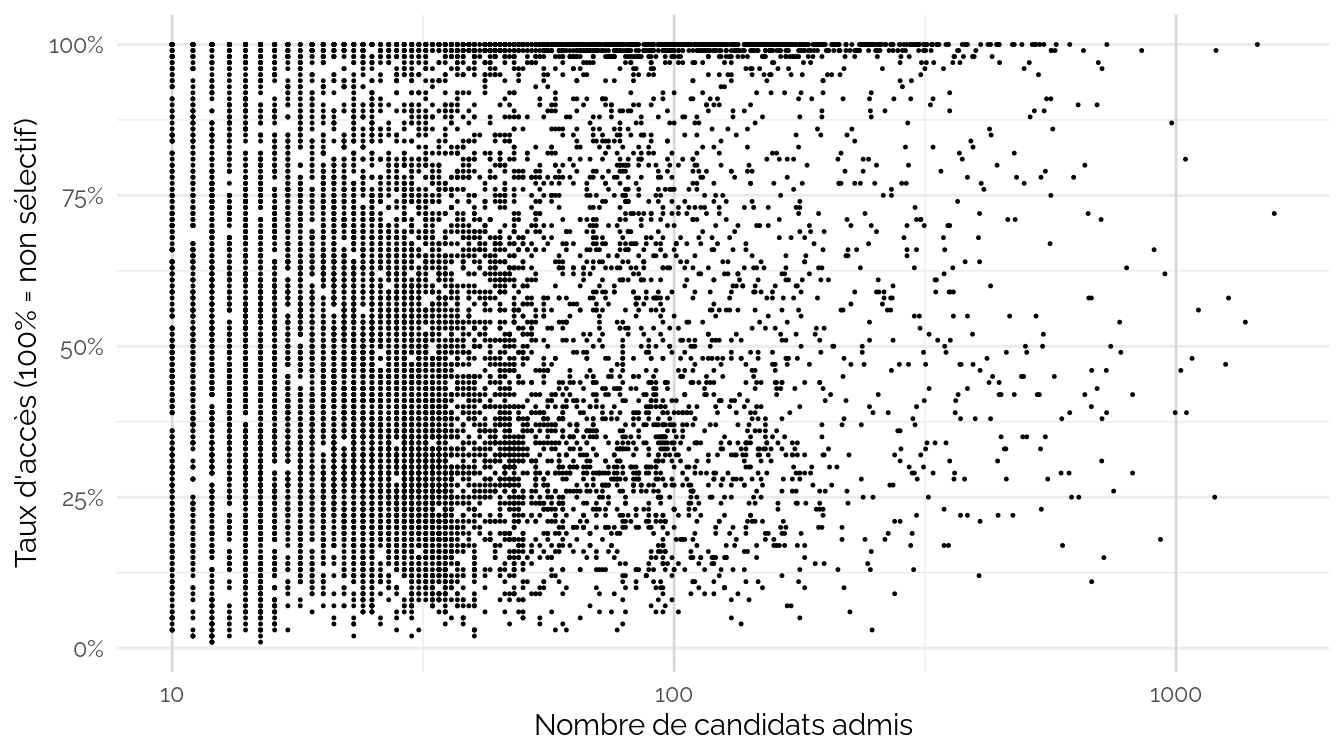
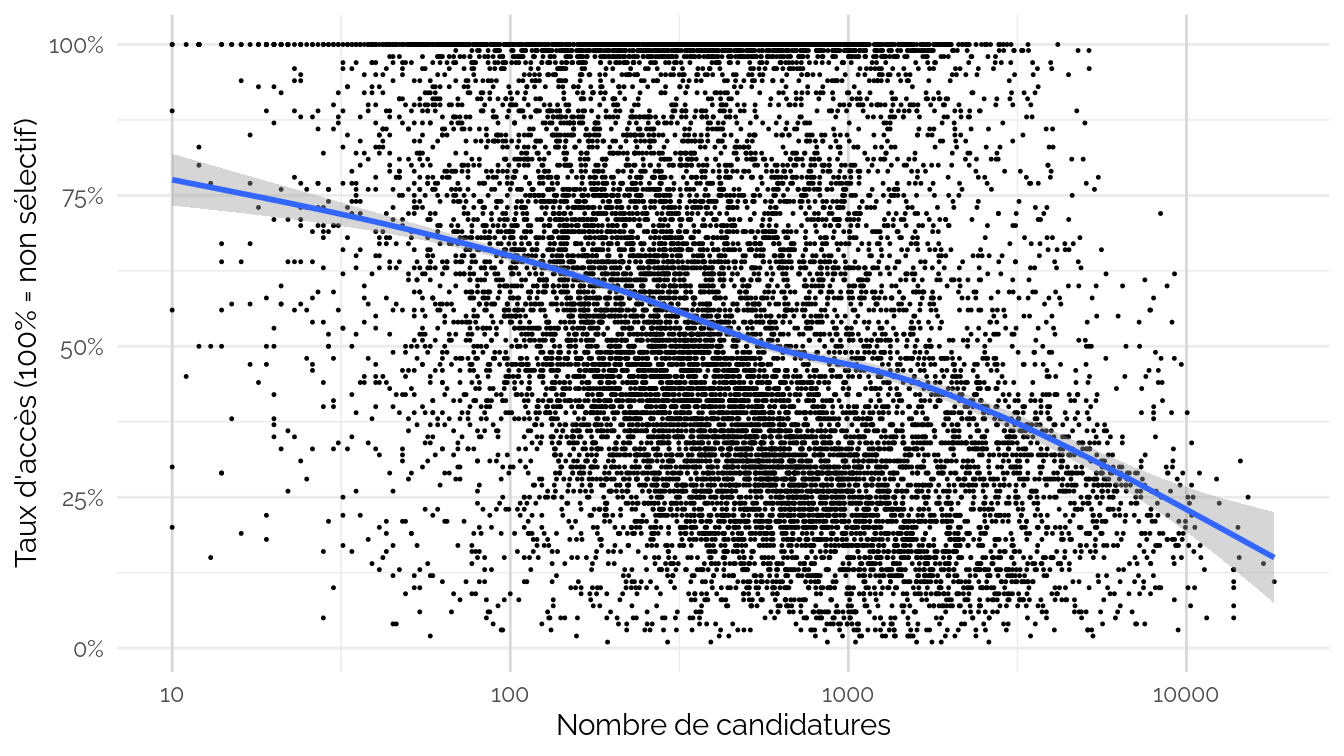
carte candidatures

diff --git a/cartographie.md b/cartographie.md
@@ -459,7 +459,11 @@ Voir les données
 
 ### Cartes
 
-    ## Warning: Removed 75 rows containing missing values (`geom_point()`).
+    ## `geom_smooth()` using method = 'gam' and formula = 'y ~ s(x, bs = "cs")'
+
+    ## Warning: Removed 47 rows containing non-finite values (`stat_smooth()`).
+
+    ## Warning: Removed 47 rows containing missing values (`geom_point()`).
 
 <img src="cartographie_files/figure-gfm/carte.formations.0-1.png" width="672" />
 
@@ -504,6 +508,10 @@ Voir les données
 | Université de Bordeaux - Bordeaux Métropole - Licence - Administration économique et sociale                                |                                            1810 |    90 |           97 |    2021 | Public                                                                | 0470947Z                    | Université de Bordeaux - Antenne d’Agen       | 47                                    | Lot-et-Garonne                 | Nouvelle-Aquitaine        | Bordeaux                    | Agen                       | formation non sélective | Licence                           | Licence - Droit-économie-gestion        | Administration économique et sociale                        |                                                                                    | 44.2082, 0.62735                |                                       110 |                                            1044 |                                             1700 |                                                    NA |                                                               1154 |                                                                               250 |                                                                      179 |                                                                                      64 |                                                                       26 |                                                                                      13 |                                               341 |                                                  110 |                                                                     17 |                                                                          12 |                                                                            6 |                                                     75 |                                                                         1651 |                                                                         90 |                                                                    NA |                                                                      NA |                                                                       1154 |                                                                                       250 |                                                                              179 |                                                                                              64 |                                                                               26 |                                                                                              13 |                                                       292 |                                                                                              1003 |                                   52 |                                     71 |                                         18 |                                                                                                        2 |                                                                                    49 |                                                                                                      72 |                                  NA |                                               28 |                                69 |                                         55 |                                               10 |                                                4 |                                  21 |                                                                             0 |                                                         40 |                                                                    27 |                                                               2 |                                                                    0 |                                                                                       0 |                                                                     28 |                                                                            1 |                                                                            0 |                                                             NA |                                                                NA |                                                52 |                                                                                   52 | 2,22                                                                                        | 54,44                                                                    | 80                                                                                         | 57,796875              | 75,390625                                           | 75,390625                                                                              |                                                               NA | 40,59375                            | 76,6875                   | 0                                                                | 58                                            | 39,09375                                                 | 2,89990234375                                      | 0                                                       | 0                                                                          | 79,6875                            | 40,59375                  | 14,5                                     | 1,39990234375               | 5,7998046875                             | 0                           |                                                                                                               704 |                                                                                                                              152 |                                                                                                                     80 |                                                                                                                                    28 |                                                                                                                       13 |                                                                                                                                                9 |                                                                                                206 | Tous les candidats                                              |                               4661 |                                                                 |                                 NA |                                                                 |                                 NA | Liste d’appel commune à plusieurs formations | 1_universités |        28197 | Licence - Administration économique et sociale                                |               | <https://dossier.parcoursup.fr/Candidat/carte?g_ti_cod=4461&g_ta_cod=28197>  |                                                                                76 |                                                                                      17 |                                                                                       8 |                          |                       |
 
 </details>
+
+    ## Warning: Removed 11 rows containing missing values (`geom_point()`).
+
+<img src="cartographie_files/figure-gfm/carte.formations.candidatures-1.png" width="672" />
 
 [^1]: <https://www.data.gouv.fr/fr/datasets/indicateurs-de-valeur-ajoutee-des-lycees-denseignement-general-et-technologique/>
 
